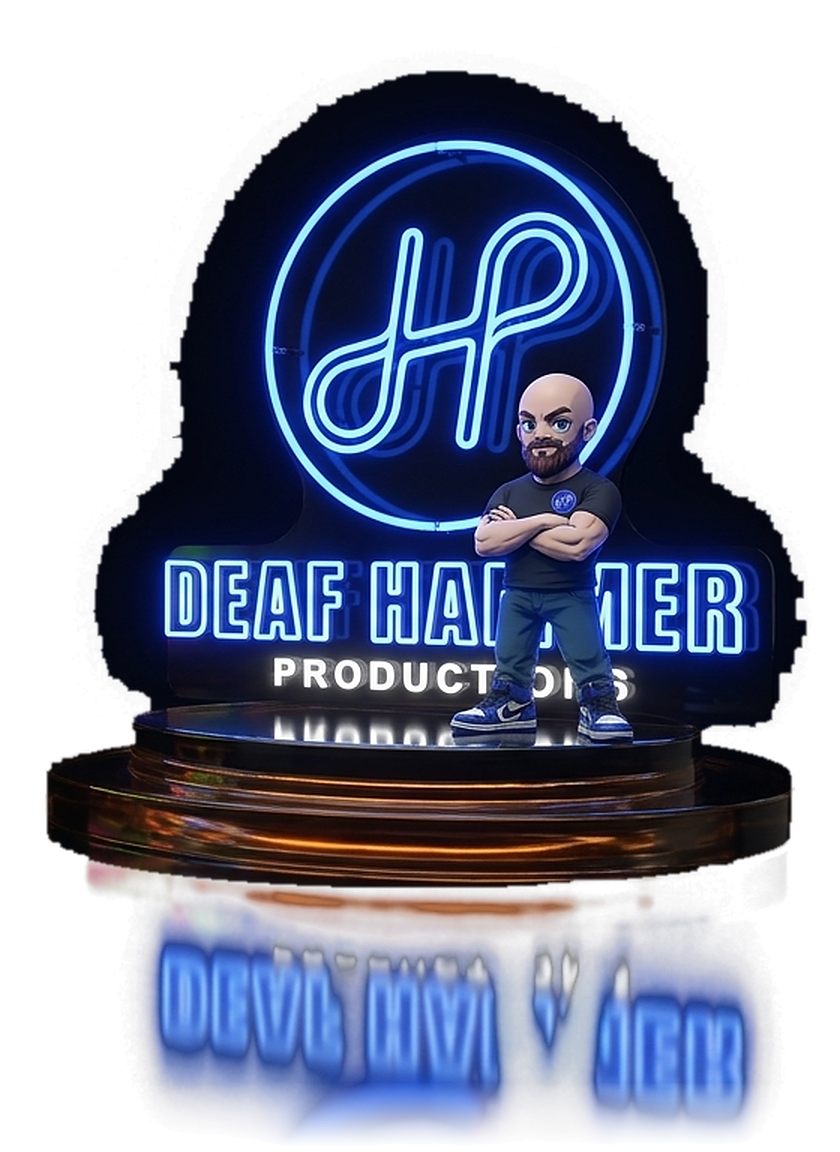
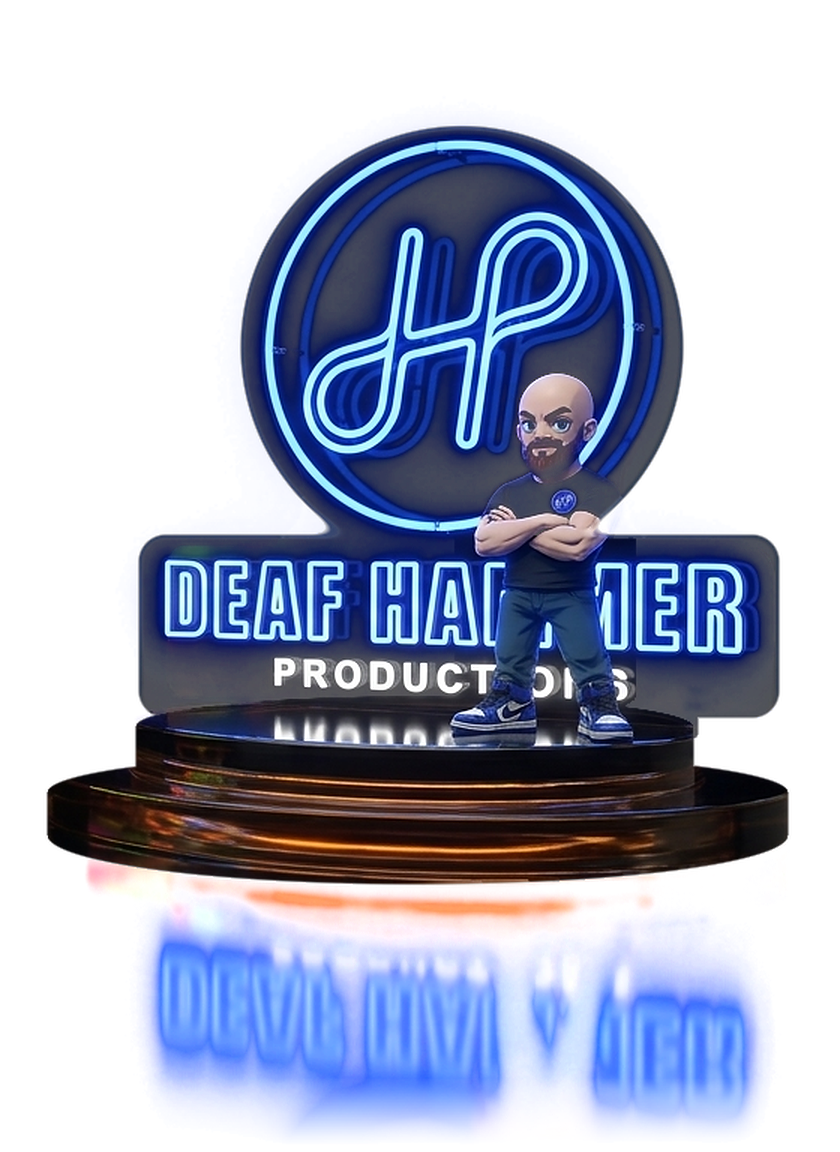
Eliminate jagged dark air-glow fringe on Concept 07 corners with exact CAD SDF glass contours & unpremultiplied neon light (v236)

Changed region(s): [[0.031, 0.0625, 0.9595, 0.7188], [0.0619, 0.7188, 0.9286, 1.0], [0.4643, 0.5938, 0.4952, 0.625]]

diff --git a/index.html b/index.html
@@ -14,7 +14,7 @@
     <link
         href="https://fonts.googleapis.com/css2?family=Audiowide&family=Bungee&family=Chakra+Petch:ital,wght@0,500;0,600;0,700;1,700&family=Cinzel+Decorative:wght@700;900&family=Cormorant+Garamond:ital,wght@0,500;0,600;1,500;1,600&family=Orbitron:wght@400;700;900&family=Outfit:wght@300;400;500;600;700&family=Press+Start+2P&family=Righteous&family=Russo+One&family=Rye&family=Space+Grotesk:wght@500;600;700&display=swap"
         rel="stylesheet">
-    <link rel="stylesheet" href="style.css?v=235">
+    <link rel="stylesheet" href="style.css?v=236">
 </head>
 
 <body class="cinema-intro-active">
@@ -107,7 +107,7 @@
 
     <main class="hero-container cinematic-center" id="hero-container">
         <div class="logo-container" id="logo-container">
-            <img src="assets/logo.png?v=235" alt="Retrocanopy Logo" class="brand-logo-image logo-evo-hd">
+            <img src="assets/logo.png?v=236" alt="Retrocanopy Logo" class="brand-logo-image logo-evo-hd">
         </div>
         <h1 class="brand-name" aria-label="RETROCANOPY">
             <span class="brand-text-base">RETROCAN</span><span class="flicker-letter sabotaged" id="flicker-o">O<span class="o-hit-spark" id="o-hit-spark" aria-hidden="true"></span><span class="o-shockwave-ring" id="o-shockwave-ring" aria-hidden="true"></span></span><span class="brand-text-base">PY</span>
@@ -168,36 +168,36 @@
     <section class="holo-butler-journey-stage pitch-black-opening" id="holo-butler-journey-stage" data-mood="nostalgia" aria-label="Gaming Culture Shift Journey with Syn the Hologram Owl Butler">
         <!-- 8 Widescreen 16-Bit Scene Illustrations with Cinematic Ken-Burns Pan/Zoom + Live Neon Flicker & Moving CRT Gameplay -->
         <div class="holo-era-backdrop-slides" id="holo-era-slides" aria-hidden="true">
-            <div class="holo-era-slide" data-era-slide="0" style="background-image: url('assets/eras/scene1_golden_arcade.jpg?v=235');">
-                <div class="era-neon-glow-layer neon-flicker-arcade" style="background-image: url('assets/eras/scene1_neon_glow.png?v=235');"></div>
-                <canvas class="era-crt-game-canvas" data-era-crt-canvas="1" style="-webkit-mask-image: url('assets/eras/scene1_crt_mask.png?v=235'); mask-image: url('assets/eras/scene1_crt_mask.png?v=235');"></canvas>
+            <div class="holo-era-slide" data-era-slide="0" style="background-image: url('assets/eras/scene1_golden_arcade.jpg?v=236');">
+                <div class="era-neon-glow-layer neon-flicker-arcade" style="background-image: url('assets/eras/scene1_neon_glow.png?v=236');"></div>
+                <canvas class="era-crt-game-canvas" data-era-crt-canvas="1" style="-webkit-mask-image: url('assets/eras/scene1_crt_mask.png?v=236'); mask-image: url('assets/eras/scene1_crt_mask.png?v=236');"></canvas>
             </div>
-            <div class="holo-era-slide" data-era-slide="1" style="background-image: url('assets/eras/scene2_rental_friday.jpg?v=235');">
-                <div class="era-neon-glow-layer neon-flicker-rental" style="background-image: url('assets/eras/scene2_neon_glow.png?v=235');"></div>
-                <canvas class="era-crt-game-canvas" data-era-crt-canvas="2" style="-webkit-mask-image: url('assets/eras/scene2_crt_mask.png?v=235'); mask-image: url('assets/eras/scene2_crt_mask.png?v=235');"></canvas>
+            <div class="holo-era-slide" data-era-slide="1" style="background-image: url('assets/eras/scene2_rental_friday.jpg?v=236');">
+                <div class="era-neon-glow-layer neon-flicker-rental" style="background-image: url('assets/eras/scene2_neon_glow.png?v=236');"></div>
+                <canvas class="era-crt-game-canvas" data-era-crt-canvas="2" style="-webkit-mask-image: url('assets/eras/scene2_crt_mask.png?v=236'); mask-image: url('assets/eras/scene2_crt_mask.png?v=236');"></canvas>
             </div>
-            <div class="holo-era-slide" data-era-slide="2" style="background-image: url('assets/eras/scene3_lan_culture.jpg?v=235');">
-                <div class="era-neon-glow-layer neon-flicker-lan" style="background-image: url('assets/eras/scene3_neon_glow.png?v=235');"></div>
-                <canvas class="era-crt-game-canvas" data-era-crt-canvas="3" style="-webkit-mask-image: url('assets/eras/scene3_crt_mask.png?v=235'); mask-image: url('assets/eras/scene3_crt_mask.png?v=235');"></canvas>
+            <div class="holo-era-slide" data-era-slide="2" style="background-image: url('assets/eras/scene3_lan_culture.jpg?v=236');">
+                <div class="era-neon-glow-layer neon-flicker-lan" style="background-image: url('assets/eras/scene3_neon_glow.png?v=236');"></div>
+                <canvas class="era-crt-game-canvas" data-era-crt-canvas="3" style="-webkit-mask-image: url('assets/eras/scene3_crt_mask.png?v=236'); mask-image: url('assets/eras/scene3_crt_mask.png?v=236');"></canvas>
             </div>
-            <div class="holo-era-slide" data-era-slide="3" style="background-image: url('assets/eras/scene4_midnight_tournament.jpg?v=235');">
-                <div class="era-neon-glow-layer neon-flicker-tourney" style="background-image: url('assets/eras/scene4_neon_glow.png?v=235');"></div>
-                <canvas class="era-crt-game-canvas" data-era-crt-canvas="4" style="-webkit-mask-image: url('assets/eras/scene4_crt_mask.png?v=235'); mask-image: url('assets/eras/scene4_crt_mask.png?v=235');"></canvas>
+            <div class="holo-era-slide" data-era-slide="3" style="background-image: url('assets/eras/scene4_midnight_tournament.jpg?v=236');">
+                <div class="era-neon-glow-layer neon-flicker-tourney" style="background-image: url('assets/eras/scene4_neon_glow.png?v=236');"></div>
+                <canvas class="era-crt-game-canvas" data-era-crt-canvas="4" style="-webkit-mask-image: url('assets/eras/scene4_crt_mask.png?v=236'); mask-image: url('assets/eras/scene4_crt_mask.png?v=236');"></canvas>
             </div>
-            <div class="holo-era-slide" data-era-slide="4" style="background-image: url('assets/eras/scene5_shuttered_arcade.jpg?v=235');">
+            <div class="holo-era-slide" data-era-slide="4" style="background-image: url('assets/eras/scene5_shuttered_arcade.jpg?v=236');">
                 <canvas class="shuttered-arcade-static-canvas" id="shuttered-arcade-static-canvas" aria-hidden="true"></canvas>
             </div>
-            <div class="holo-era-slide" data-era-slide="5" style="background-image: url('assets/eras/scene6_corporate_static.jpg?v=235');">
+            <div class="holo-era-slide" data-era-slide="5" style="background-image: url('assets/eras/scene6_corporate_static.jpg?v=236');">
                 <canvas class="tv-pile-static-canvas" id="tv-pile-static-canvas" aria-hidden="true"></canvas>
             </div>
-            <div class="holo-era-slide" data-era-slide="6" style="background-image: url('assets/eras/scene7_creator_loft.jpg?v=235');">
-                <div class="era-neon-glow-layer neon-flicker-loft" style="background-image: url('assets/eras/scene7_neon_glow.png?v=235');"></div>
-                <canvas class="era-crt-game-canvas" data-era-crt-canvas="7" style="-webkit-mask-image: url('assets/eras/scene7_crt_mask.png?v=235'); mask-image: url('assets/eras/scene7_crt_mask.png?v=235');"></canvas>
+            <div class="holo-era-slide" data-era-slide="6" style="background-image: url('assets/eras/scene7_creator_loft.jpg?v=236');">
+                <div class="era-neon-glow-layer neon-flicker-loft" style="background-image: url('assets/eras/scene7_neon_glow.png?v=236');"></div>
+                <canvas class="era-crt-game-canvas" data-era-crt-canvas="7" style="-webkit-mask-image: url('assets/eras/scene7_crt_mask.png?v=236'); mask-image: url('assets/eras/scene7_crt_mask.png?v=236');"></canvas>
             </div>
-            <div class="holo-era-slide" data-era-slide="7" style="background-image: url('assets/eras/scene8_retrocanopy_sanctuary.jpg?v=235');">
-                <div class="era-tree-blue-glow-layer" style="background-image: url('assets/eras/scene8_tree_blue_glow.png?v=235');"></div>
-                <canvas class="era-tree-magic-canvas" data-era-tree-canvas="8" style="-webkit-mask-image: url('assets/eras/scene8_tree_blue_glow.png?v=235'); mask-image: url('assets/eras/scene8_tree_blue_glow.png?v=235');"></canvas>
-                <canvas class="era-crt-game-canvas" data-era-crt-canvas="8" style="-webkit-mask-image: url('assets/eras/scene8_crt_mask.png?v=235'); mask-image: url('assets/eras/scene8_crt_mask.png?v=235');"></canvas>
+            <div class="holo-era-slide" data-era-slide="7" style="background-image: url('assets/eras/scene8_retrocanopy_sanctuary.jpg?v=236');">
+                <div class="era-tree-blue-glow-layer" style="background-image: url('assets/eras/scene8_tree_blue_glow.png?v=236');"></div>
+                <canvas class="era-tree-magic-canvas" data-era-tree-canvas="8" style="-webkit-mask-image: url('assets/eras/scene8_tree_blue_glow.png?v=236'); mask-image: url('assets/eras/scene8_tree_blue_glow.png?v=236');"></canvas>
+                <canvas class="era-crt-game-canvas" data-era-crt-canvas="8" style="-webkit-mask-image: url('assets/eras/scene8_crt_mask.png?v=236'); mask-image: url('assets/eras/scene8_crt_mask.png?v=236');"></canvas>
             </div>
             <!-- Act-Reactive Emotional Color Grading & Anamorphic Light Wash inside the Cinema Frame -->
             <div class="holo-emotional-color-grade" aria-hidden="true"></div>
@@ -243,12 +243,12 @@
             <div class="holo-owl-beam-cone" aria-hidden="true"></div>
             <div class="holo-owl-scan-laser" aria-hidden="true"></div>
             <div class="holo-owl-sprite-wrap">
-                <img src="assets/friends/owl3_wings_open.png?v=235" alt="Synth Arms Down on Cane" class="owl-frame frame-idle active" decoding="async">
-                <img src="assets/friends/owl3_welcome.png?v=235" alt="Synth Arm Out Welcoming" class="owl-frame frame-talk1" decoding="async">
-                <img src="assets/friends/owl3_welcome.png?v=235" alt="Synth Arm Out Welcoming" class="owl-frame frame-talk2" decoding="async">
+                <img src="assets/friends/owl3_wings_open.png?v=236" alt="Synth Arms Down on Cane" class="owl-frame frame-idle active" decoding="async">
+                <img src="assets/friends/owl3_welcome.png?v=236" alt="Synth Arm Out Welcoming" class="owl-frame frame-talk1" decoding="async">
+                <img src="assets/friends/owl3_welcome.png?v=236" alt="Synth Arm Out Welcoming" class="owl-frame frame-talk2" decoding="async">
                 <!-- True RGB Horizontal Scan-Slice Glitch Layers (no rubbery skewing) -->
-                <img src="assets/friends/owl3_wings_open.png?v=235" alt="" aria-hidden="true" class="owl-glitch-slice owl-glitch-slice-cyan" decoding="async">
-                <img src="assets/friends/owl3_wings_open.png?v=235" alt="" aria-hidden="true" class="owl-glitch-slice owl-glitch-slice-magenta" decoding="async">
+                <img src="assets/friends/owl3_wings_open.png?v=236" alt="" aria-hidden="true" class="owl-glitch-slice owl-glitch-slice-cyan" decoding="async">
+                <img src="assets/friends/owl3_wings_open.png?v=236" alt="" aria-hidden="true" class="owl-glitch-slice owl-glitch-slice-magenta" decoding="async">
             </div>
             <div class="holo-owl-emitter-ring" aria-hidden="true"></div>
             <div class="holo-owl-floor-light" aria-hidden="true"></div>
@@ -295,20 +295,20 @@
                         <canvas class="rc-c1-ember-canvas" id="rc-c1-ember-canvas" width="460" height="440" aria-hidden="true"></canvas>
 
                         <!-- Clean Unbaked 3-Tiered Molten-Orange Liquid Glass Stand -->
-                        <img class="rc-f14-pedestal-composite-img rc-f14-pedestal-stand-layer rc-c1-stand-img" id="rc-c1-stand-img" src="assets/ui/fresh14_centerpiece_clean_stand.png?v=235" alt="3-Tiered Molten-Orange Liquid Glass Pedestal" loading="eager" decoding="async" draggable="false" />
+                        <img class="rc-f14-pedestal-composite-img rc-f14-pedestal-stand-layer rc-c1-stand-img" id="rc-c1-stand-img" src="assets/ui/fresh14_centerpiece_clean_stand.png?v=236" alt="3-Tiered Molten-Orange Liquid Glass Pedestal" loading="eager" decoding="async" draggable="false" />
 
                         <!-- Live Dynamic Top-Disc Reflection & Contact Shadow -->
                         <div class="rc-c1-top-disc-refl-mask" id="rc-c1-refl-stack" aria-hidden="true">
-                            <img class="rc-c1-refl-slide is-active" data-c1-idx="0" src="assets/ui/c1_items/c1_hoodie_back.png?v=235" alt="" draggable="false" />
-                            <img class="rc-c1-refl-slide" data-c1-idx="1" src="assets/ui/c1_items/c1_valkyrie_hat.png?v=235" alt="" draggable="false" />
+                            <img class="rc-c1-refl-slide is-active" data-c1-idx="0" src="assets/ui/c1_items/c1_hoodie_back.png?v=236" alt="" draggable="false" />
+                            <img class="rc-c1-refl-slide" data-c1-idx="1" src="assets/ui/c1_items/c1_valkyrie_hat.png?v=236" alt="" draggable="false" />
                         </div>
                         <div class="rc-c1-contact-shadow" aria-hidden="true"></div>
 
                         <!-- Single Central Levitating & Gold-Phasing Hero Shop Item Stack (1 Best Hero View Per Item) -->
                         <a class="rc-c1-hover-item-link" id="rc-c1-item-link" href="hoodie_preview.html?filter=all&amp;side=back" aria-label="Shop White &amp; Gold Hoodie — $160" title="White &amp; Gold Hoodie — $160">
                             <span class="rc-c1-hover-float-wrap" id="rc-c1-slides-stack">
-                                <img class="rc-c1-item-slide is-active" data-c1-idx="0" src="assets/ui/c1_items/c1_hoodie_back.png?v=235" alt="White &amp; 24K Gold Hoodie" loading="eager" decoding="async" draggable="false" />
-                                <img class="rc-c1-item-slide" data-c1-idx="1" src="assets/ui/c1_items/c1_valkyrie_hat.png?v=235" alt="White &amp; 24K Gold Valkyrie Snapback Hat" loading="eager" decoding="async" draggable="false" />
+                                <img class="rc-c1-item-slide is-active" data-c1-idx="0" src="assets/ui/c1_items/c1_hoodie_back.png?v=236" alt="White &amp; 24K Gold Hoodie" loading="eager" decoding="async" draggable="false" />
+                                <img class="rc-c1-item-slide" data-c1-idx="1" src="assets/ui/c1_items/c1_valkyrie_hat.png?v=236" alt="White &amp; 24K Gold Valkyrie Snapback Hat" loading="eager" decoding="async" draggable="false" />
                             </span>
                         </a>
 
@@ -350,10 +350,10 @@
                                 <span class="rc-holo-beam-cone rc-f14-hero-beam" aria-hidden="true"></span>
                                 <span class="rc-holo-scan-laser rc-f14-hero-laser" aria-hidden="true"></span>
                                 <span class="rc-holo-proj-stage rc-f14-holo-slides-stack">
-                                    <img class="rc-f14-holo-slide is-active" data-holo-idx="0" data-label="WEBSITES" data-sub="Custom Sites &amp; 3D Storefronts" data-service="Custom Website" src="assets/misfits/holo_proj_websites.png?v=235" alt="Custom Websites Hologram" loading="eager" decoding="async" draggable="false" />
-                                    <img class="rc-f14-holo-slide" data-holo-idx="1" data-label="APPS" data-sub="iOS, Android &amp; Full-Stack Web Apps" data-service="Mobile / Web App" src="assets/misfits/holo_proj_apps.png?v=235" alt="Mobile and Web Apps Hologram" loading="eager" decoding="async" draggable="false" />
-                                    <img class="rc-f14-holo-slide" data-holo-idx="2" data-label="GAMES" data-sub="Custom Arcade &amp; Interactive Games" data-service="Custom Arcade / Web Game" src="assets/misfits/holo_proj_games.png?v=235" alt="Custom Games Hologram" loading="eager" decoding="async" draggable="false" />
-                                    <img class="rc-f14-holo-slide" data-holo-idx="3" data-label="CUSTOM APPAREL" data-sub="Hats, Hoodies &amp; Streetwear Drops" data-service="Custom Apparel & Merch" src="assets/misfits/holo_proj_apparel.png?v=235" alt="Custom Apparel Hologram" loading="eager" decoding="async" draggable="false" />
+                                    <img class="rc-f14-holo-slide is-active" data-holo-idx="0" data-label="WEBSITES" data-sub="Custom Sites &amp; 3D Storefronts" data-service="Custom Website" src="assets/misfits/holo_proj_websites.png?v=236" alt="Custom Websites Hologram" loading="eager" decoding="async" draggable="false" />
+                                    <img class="rc-f14-holo-slide" data-holo-idx="1" data-label="APPS" data-sub="iOS, Android &amp; Full-Stack Web Apps" data-service="Mobile / Web App" src="assets/misfits/holo_proj_apps.png?v=236" alt="Mobile and Web Apps Hologram" loading="eager" decoding="async" draggable="false" />
+                                    <img class="rc-f14-holo-slide" data-holo-idx="2" data-label="GAMES" data-sub="Custom Arcade &amp; Interactive Games" data-service="Custom Arcade / Web Game" src="assets/misfits/holo_proj_games.png?v=236" alt="Custom Games Hologram" loading="eager" decoding="async" draggable="false" />
+                                    <img class="rc-f14-holo-slide" data-holo-idx="3" data-label="CUSTOM APPAREL" data-sub="Hats, Hoodies &amp; Streetwear Drops" data-service="Custom Apparel & Merch" src="assets/misfits/holo_proj_apparel.png?v=236" alt="Custom Apparel Hologram" loading="eager" decoding="async" draggable="false" />
                                 </span>
                                 <span class="rc-holo-emitter-ring rc-f14-hero-emitter" id="rc-f14-hero-emitter" aria-hidden="true"></span>
                                 <span class="rc-holo-floor-glow rc-f14-hero-floor-glow" aria-hidden="true"></span>
@@ -383,11 +383,11 @@
         <!-- Concept #07 Exact: 1984 Bent-Neon & Smoked-Glass Corner Marquees with 3D-Lit Mascots & Neon Floor Reflections -->
         <div class="rc-misfits-banner-row rc-f14-bottom-pods-row rc-c07-neon-corners-row" id="rc-misfits-banner-row">
             <a class="rc-misfits-feature-link rc-partner-misfits rc-f14-corner-pod rc-c07-neon-pod pod-left" href="https://nerdymisfits.com" target="_blank" rel="noopener" aria-label="Visit NerdyMisfits.com">
-                <img class="rc-f14-c4-pod-stage-img rc-c07-marquee-stage-img" src="assets/ui/c07_exact_left_nerdy.png?v=235" alt="Nerdy Misfits 3D Neon Marquee" loading="eager" decoding="async" draggable="false" />
+                <img class="rc-f14-c4-pod-stage-img rc-c07-marquee-stage-img" src="assets/ui/c07_exact_left_nerdy.png?v=236" alt="Nerdy Misfits 3D Neon Marquee" loading="eager" decoding="async" draggable="false" />
             </a>
 
             <a class="rc-misfits-feature-link rc-partner-deafhammer rc-f14-corner-pod rc-c07-neon-pod pod-right" href="https://deafhammer.com" target="_blank" rel="noopener" aria-label="Visit DeafHammer.com">
-                <img class="rc-f14-c4-pod-stage-img rc-c07-marquee-stage-img" src="assets/ui/c07_exact_right_deafhammer.png?v=235" alt="Deaf Hammer Productions 3D Neon Marquee" loading="eager" decoding="async" draggable="false" />
+                <img class="rc-f14-c4-pod-stage-img rc-c07-marquee-stage-img" src="assets/ui/c07_exact_right_deafhammer.png?v=236" alt="Deaf Hammer Productions 3D Neon Marquee" loading="eager" decoding="async" draggable="false" />
             </a>
         </div>
     </section>
@@ -440,8 +440,8 @@
     <!-- Stage container (crew characters and section tabs removed; Synth owl butler & login preserved) -->
     <div id="crew-stage" class="crew-stage" aria-hidden="true"></div>
 
-    <script src="script.js?v=235"></script>
-    <script src="auth_hub.js?v=235"></script>
+    <script src="script.js?v=236"></script>
+    <script src="auth_hub.js?v=236"></script>
 </body>
 
 </html>

diff --git a/style.css b/style.css
@@ -8852,7 +8852,12 @@ body.rc-logged-in-home .brand-name {
     aspect-ratio: 840 / 1152 !important;
     max-width: none !important;
     max-height: 41vh !important;
+    filter: none !important;
     transition: transform 0.3s cubic-bezier(0.22, 1, 0.36, 1) !important;
+}
+
+.rc-f14-corner-pod.rc-c07-neon-pod:hover {
+    filter: none !important;
 }
 
 .rc-f14-corner-pod.rc-c07-neon-pod .rc-c07-marquee-stage-img {
@@ -8861,6 +8866,7 @@ body.rc-logged-in-home .brand-name {
     object-fit: contain !important;
     object-position: center bottom !important;
     display: block !important;
+    filter: none !important;
     transition: filter 0.3s ease !important;
 }
 
